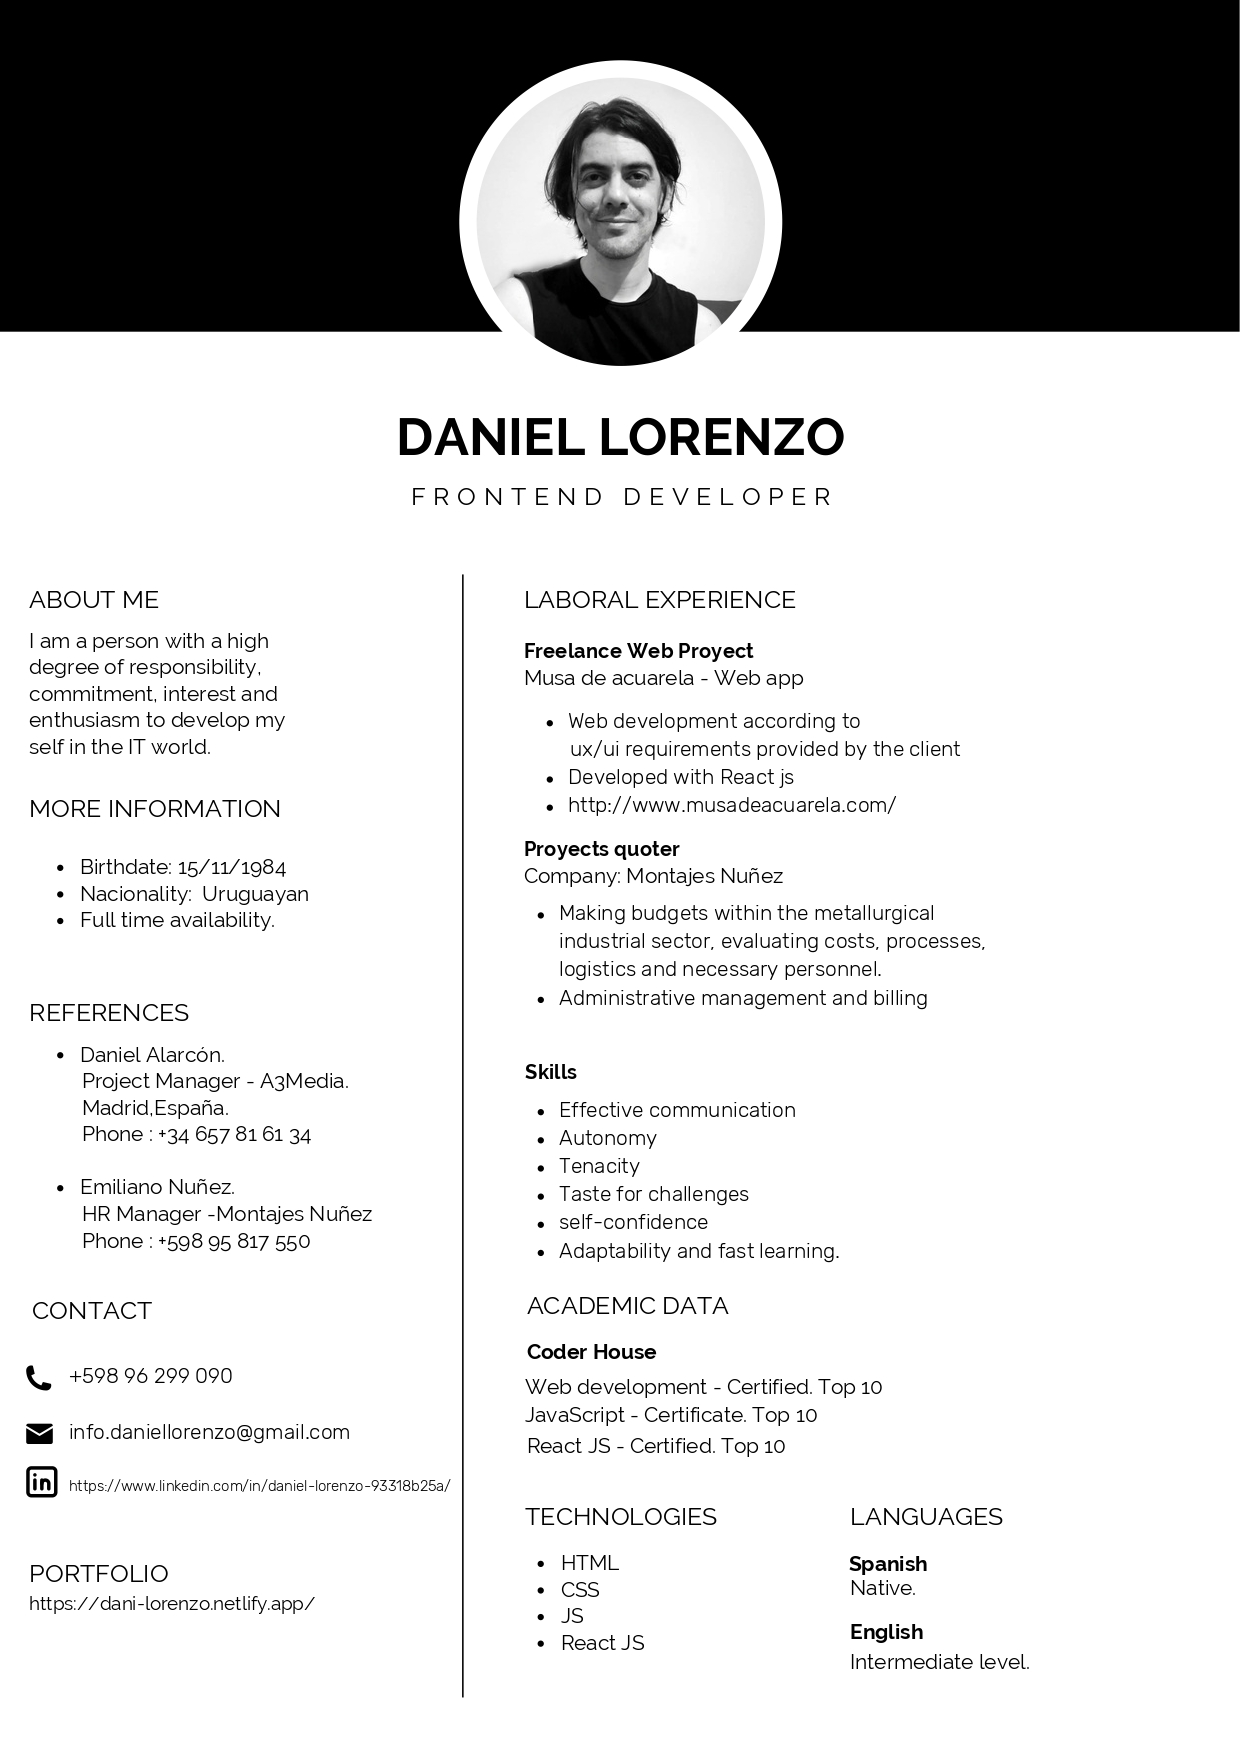
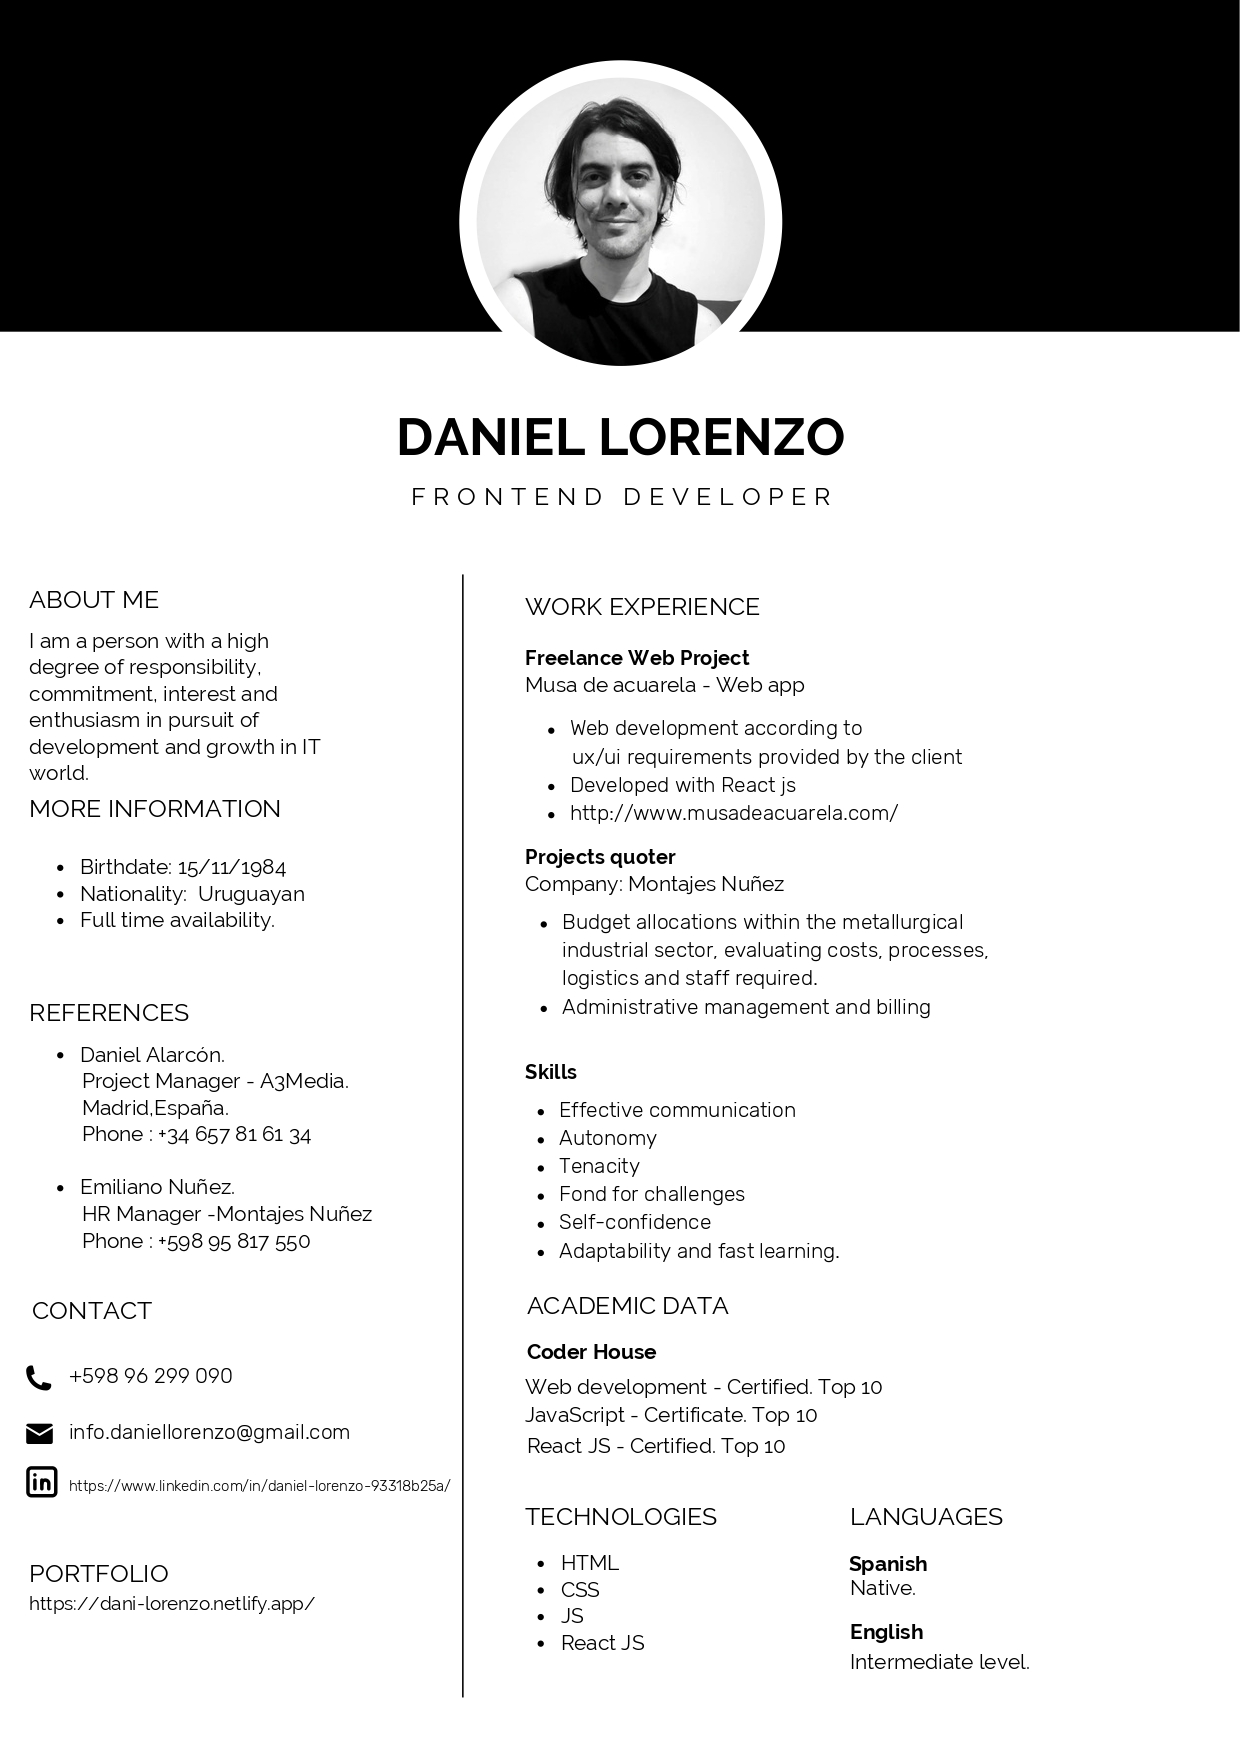
language verified

diff --git a/src/Components/Main/MainContent/MainContent.jsx b/src/Components/Main/MainContent/MainContent.jsx
@@ -36,7 +36,7 @@ const MainContent = ({ showPopUpCoder, showPopUpCurriculum }) => {
           </div>
           <p className="text-center text-xxl-start">
             <b>Certificates</b> <br />
-            View the study certificates that complete my Frontend profile.
+            Consider the study certificates that complete my Frontend profile.
           </p>
         </div>
         <div className="main_item d-flex flex-column col-md-6 flex-xxl-row animate__animated animate__fadeInRight">
@@ -78,7 +78,8 @@ const MainContent = ({ showPopUpCoder, showPopUpCurriculum }) => {
             <b>Goals</b> <br />
             Delve into technologies already explored and venture into new
             technologies. Strengthen my knowledge by overcoming challenges,
-            contributing ideas and nourishing myself from that experience.
+            contributing ideas improving through the experience.
+
           </p>
         </div>
       </div>

diff --git a/src/Components/Main/Hero/Hero.jsx b/src/Components/Main/Hero/Hero.jsx
@@ -16,10 +16,10 @@ const Hero = () => {
           }}
         />
       </div>
-      <h1 className="mt-4 text-center">Aboue Me</h1>
+      <h1 className="mt-4 text-center">About Me</h1>
       <p className="text-center">
-        I am a person with a high degree of responsibility, commitment, interest
-        and enthusiasm to develop in the IT world.
+      I am a person with a high degree of responsibility, commitment, interest and enthusiasm in pursuit of development and growth in IT world.
+
       </p>
     </section>
   );
